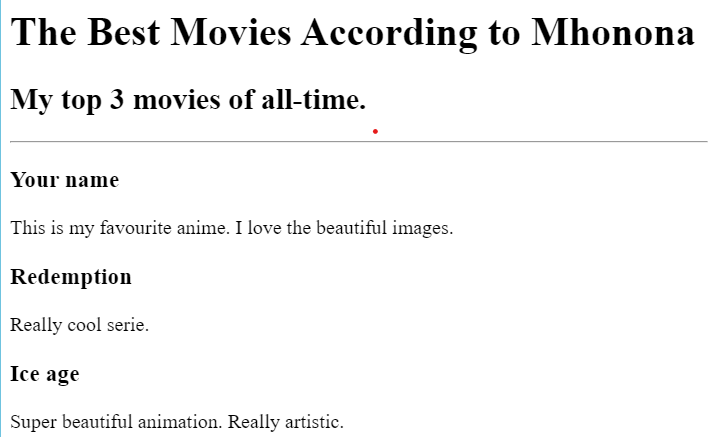
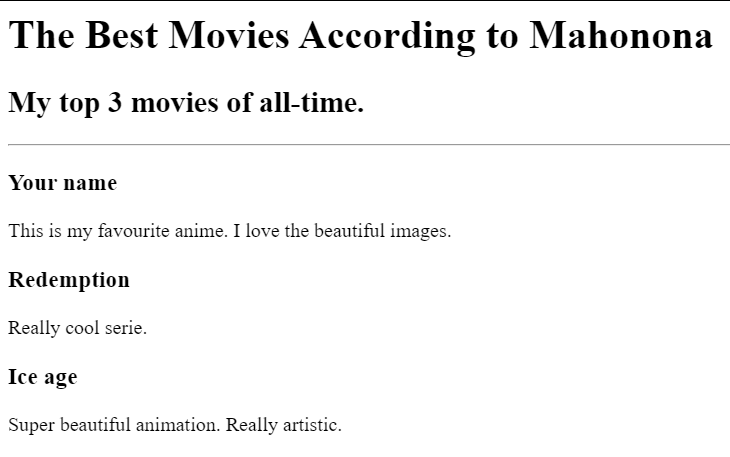
Add files via upload

diff --git a/public/movie-ranking.html b/public/movie-ranking.html
@@ -1,9 +1,9 @@
-<h1>The Best Movies According to Angela</h1>
+<h1>The Best Movies According to Mahonona</h1>
 <h2>My top 3 movies of all-time.</h2>
 <hr />
-<h3>Spirited Away</h3>
+<h3>Your name</h3>
 <p>This is my favourite anime. I love the beautiful images.</p>
-<h3>Ex Machina</h3>
-<p>Really cool sci-fi movie.</p>
-<h3>Drive</h3>
-<p>Super beautiful film. Really artistic.</p>
+<h3>Redemption</h3>
+<p>Really cool serie.</p>
+<h3>Ice age</h3>
+<p>Super beautiful animation. Really artistic.</p>
